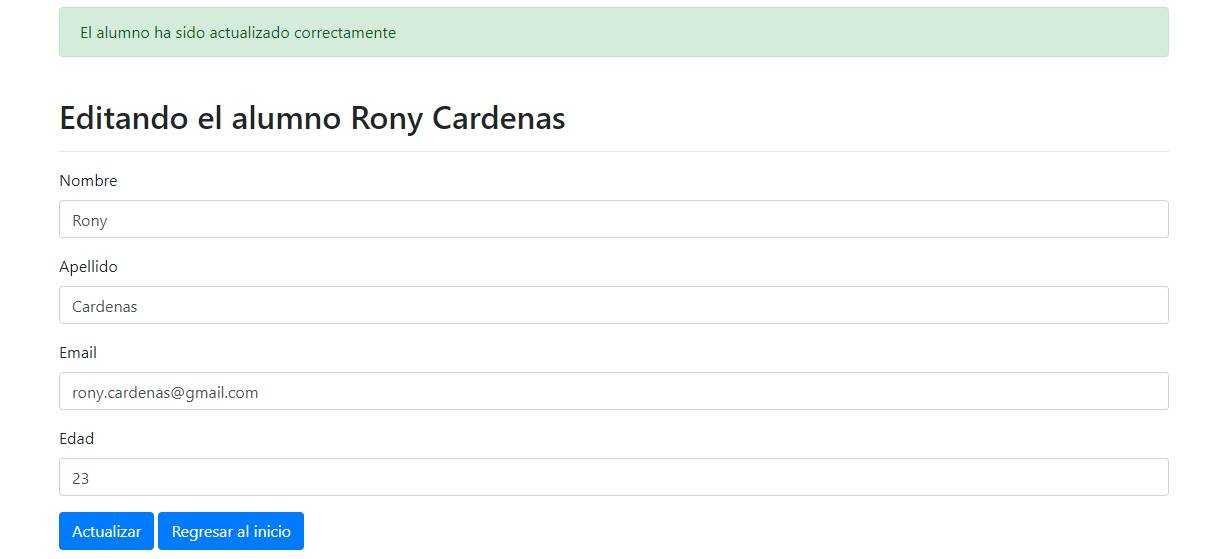
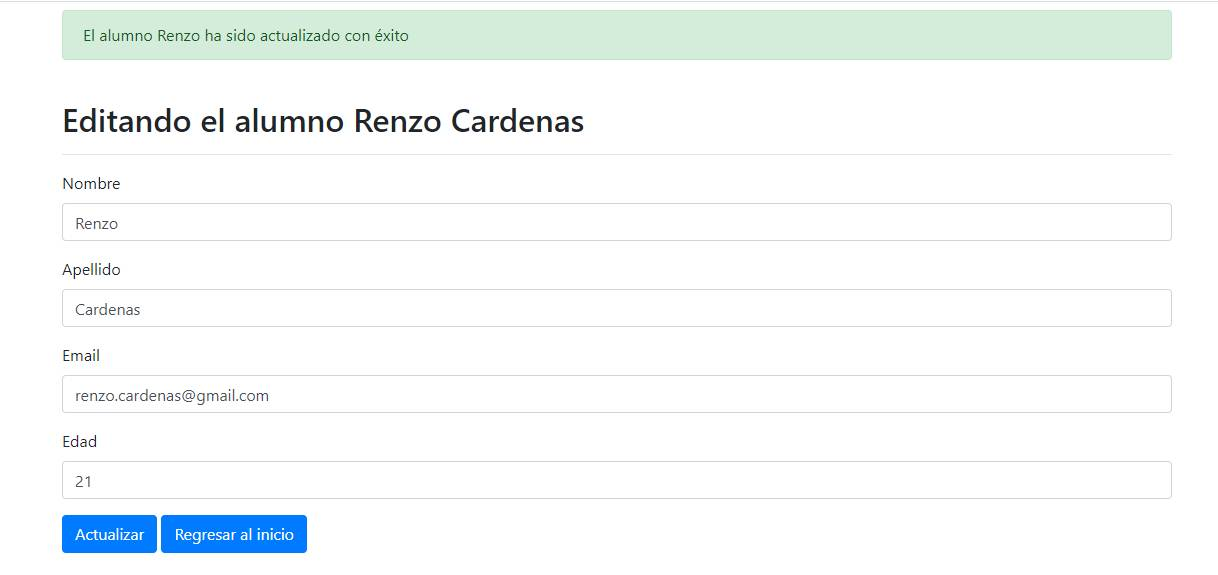
update README

diff --git a/editar.php b/editar.php
@@ -89,7 +89,7 @@ if (isset($_POST['submit']) && !$resultado['error']) {
         <div class="row">
             <div class="col-md-12">
                 <div class="alert alert-success" role="alert">
-                    El alumno ha sido actualizado correctamente
+                    <?= 'El alumno ' . escapar($_POST['nombre']) . ' ha sido actualizado con éxito' ?>
                 </div>
             </div>
         </div>
